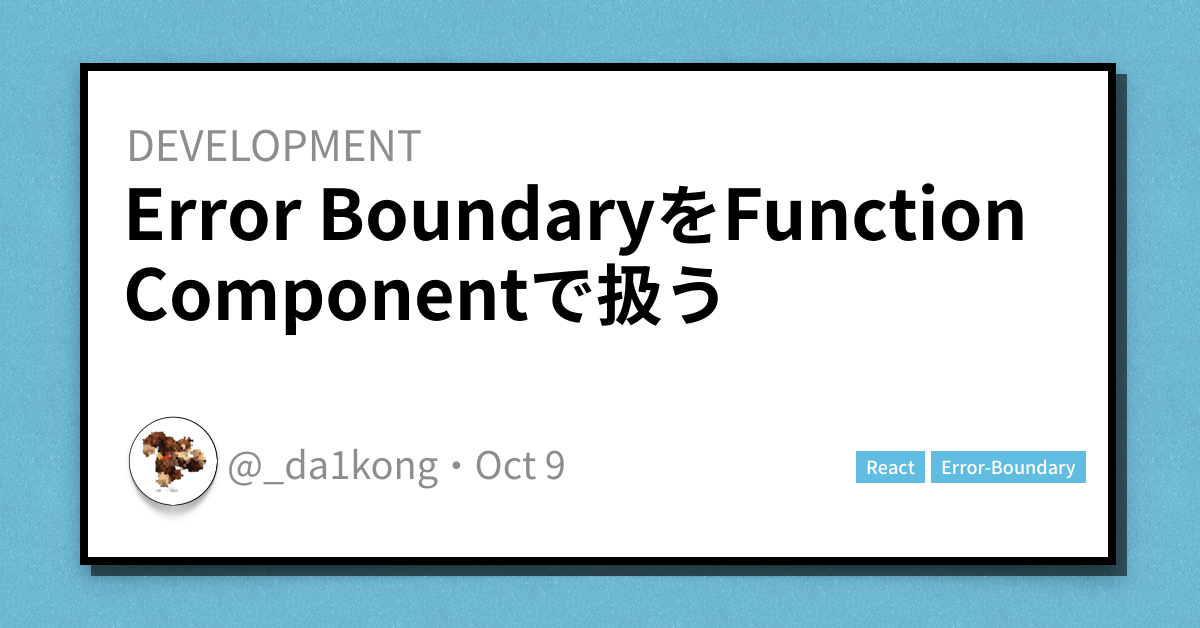
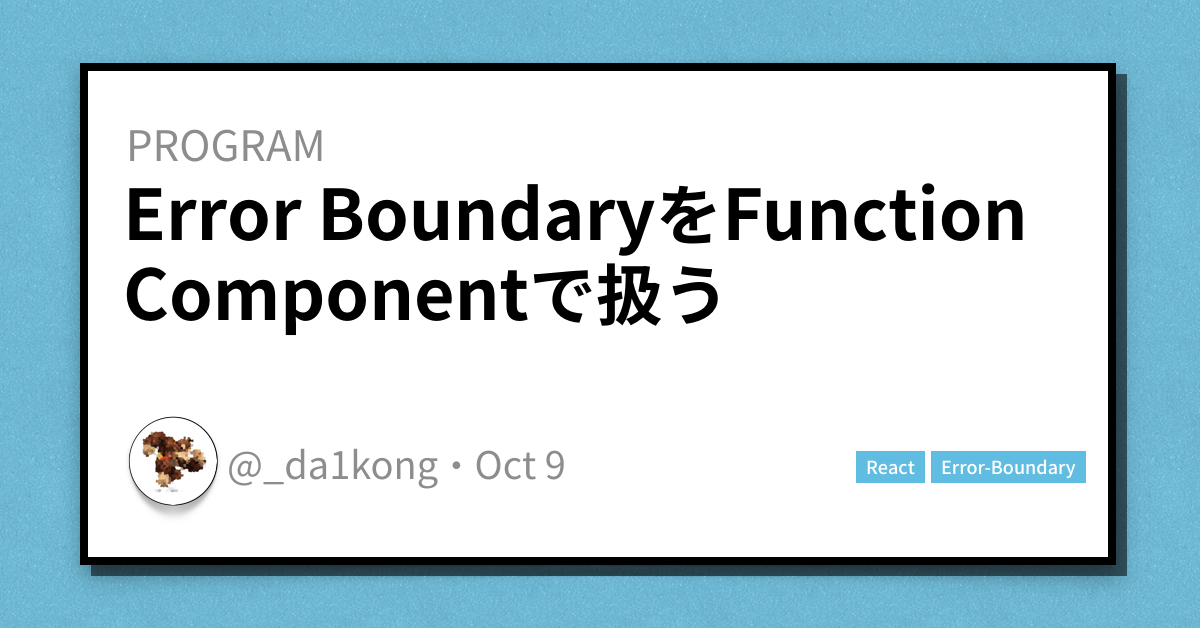
:memo: サムネ用にカテゴリーを復活させた

Changed region(s): [[0.0925, 0.1815, 0.37, 0.2723]]

diff --git a/content/posts/react-intersection-observer.md b/content/posts/react-intersection-observer.md
@@ -2,6 +2,7 @@
 title: "画面に表示されたことを検出して、Styled ComponentsでCSSを切り替える"
 date: 2020-10-03T09:43:00+09:00
 description: "react-intersection-observerとは画面の要素がビューポート（ブラウザ上に表示されている画面）に入った時、もしくは出た時に検知してくれる React 用のライブラリです。"
+categories: ["PROGRAM"]
 tags: ["React", "styled-component", "react-intersection-observer"]
 images: ["tcard/react-intersection-observer.png"]
 author: ["@_da1kong"]

diff --git a/content/posts/dotenv-js.md b/content/posts/dotenv-js.md
@@ -2,6 +2,7 @@
 title: Nodejsで環境変数を設定できるdotenvの紹介
 date: 2020-05-26T09:43:00+09:00
 description: "Node.js で API を作っていた時に Production Key や DB のパスワードをハードコーディングして GitHub に上げてしまうのは気が引けた。調べてみると Nodejs には環境変数を簡単に設定できるdotenvというモジュールがあったので使い方のメモです。"
+categories: ["PROGRAM"]
 tags: ["Nodejs"]
 images: ["tcard/dotenv-js.png"]
 author: ["@_da1kong"]

diff --git a/content/posts/first-summer-intern.md b/content/posts/first-summer-intern.md
@@ -2,6 +2,7 @@
 title: "初めてのサマーインターン選考の記録"
 date: 2020-07-28T09:43:00+09:00
 description: "4月から今までサマーインターンの選考を受けていました。エンジニアとして初めてのインターン選考だったのでかなり手探りでした。ある程度落ち着いたので、選考の記録について共有したいと思います。"
+categories: ["PROGRAM"]
 tags: ["intern"]
 images: ["tcard/first-summer-intern.png"]
 author: ["@_da1kong"]

diff --git a/content/posts/func-error-boundary.md b/content/posts/func-error-boundary.md
@@ -2,6 +2,7 @@
 title: "Error BoundaryをFunction Componentで扱う"
 date: 2020-10-09T09:43:00+09:00
 description: "React では Error Boundary という子コンポーネントツリーでエラーが発生した際にクラッシュした UI を表示させる代わりに、フォールバック用の UI を表示するコンポーネントがあります。"
+categories: ["PROGRAM"]
 tags: ["React", "error-boundary"]
 images: ["tcard/func-error-boundary.png"]
 author: ["@_da1kong"]

diff --git a/content/posts/treasure.md b/content/posts/treasure.md
@@ -2,6 +2,7 @@
 title: "VOYAGE GROUPのインターン「Treasure」に参加して"
 date: 2020-10-01T09:43:00+09:00
 description: "8/1, 8, 15の土曜日と8/17~28の約1ヶ月の期間、VOYAGE GROUPのTreasureというインターンに参加してきました。"
+categories: ["PROGRAM"]
 tags: ["intern"]
 images: ["tcard/treasure.png"]
 author: ["@_da1kong"]

diff --git a/content/posts/sort.md b/content/posts/sort.md
@@ -2,6 +2,7 @@
 title: Pythonでのソートアルゴリズムの実装
 date: 2020-06-01T09:43:00+09:00
 description: "JavaSctipt 特有の非同期処理でのメモです。"
+categories: ["PROGRAM"]
 tags: ["algorithm"]
 images: ["tcard/sort.png"]
 author: ["@_da1kong"]

diff --git a/content/posts/async-nodejs.md b/content/posts/async-nodejs.md
@@ -2,6 +2,7 @@
 title: 非同期処理でハマったこと
 date: 2020-03-01T09:43:00+09:00
 description: "JavaSctipt 特有の非同期処理でのメモです。"
+categories: ["PROGRAM"]
 tags: ["Nodejs"]
 images: ["tcard/async-nodejs.png"]
 author: ["@_da1kong"]

diff --git a/content/posts/yumemi-intern.md b/content/posts/yumemi-intern.md
@@ -2,6 +2,7 @@
 title: "ゆめみのインターンに参加して"
 date: 2020-12-06T09:00:00+09:00
 description: ""
+categories: ["PROGRAM"]
 tags: ["intern"]
 images: ["tcard/yumemi-intern.png"]
 author: ["@_da1kong"]
